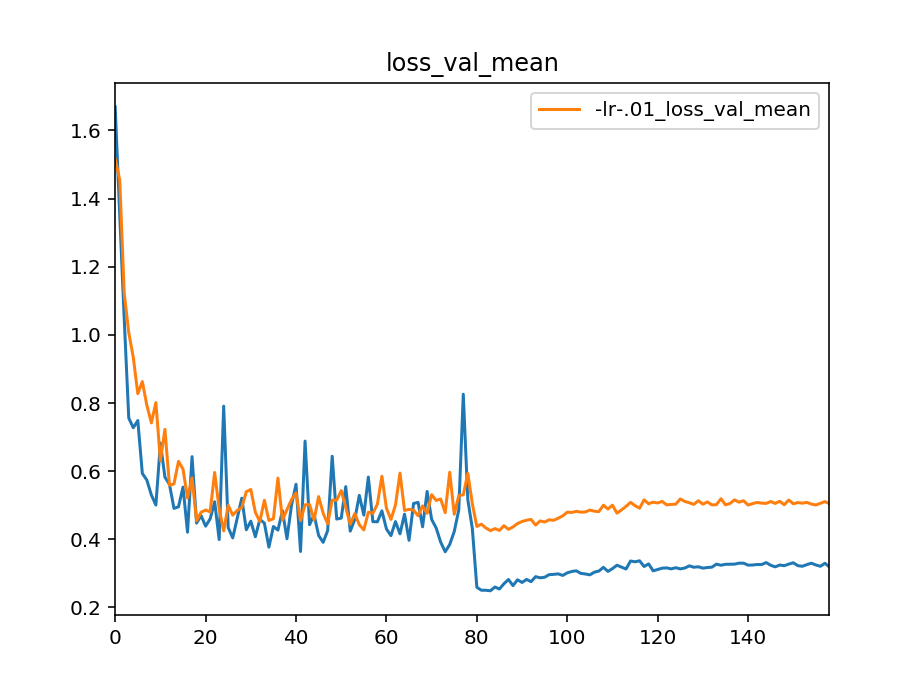
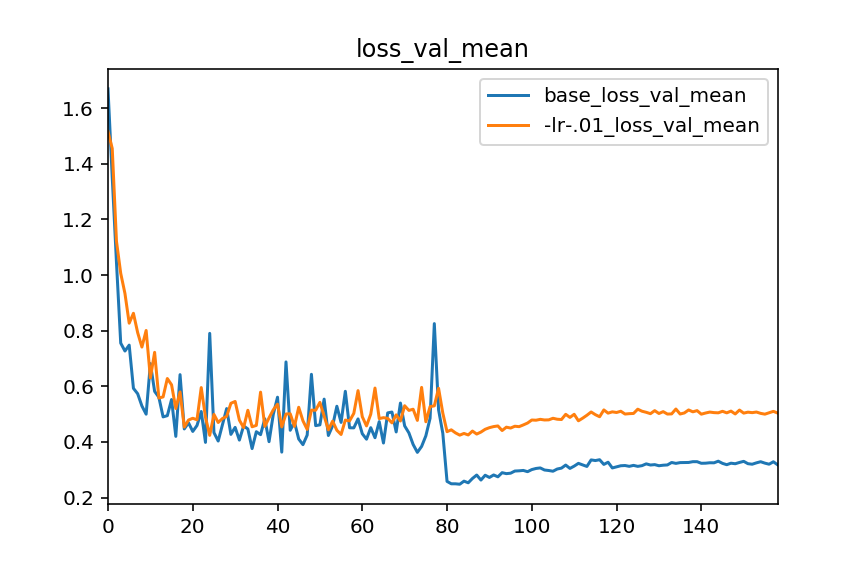
general reporting changes

diff --git a/reports.py b/reports.py
@@ -38,13 +38,7 @@ params_kv = {
 }
 
 def main():
-    args = parser.parse_args()
-
-    list_of_hyper_param_variants = [""]
-
-    list_of_hyper_param_variants += [params_kv.get(k) for k in args.params.split(",") if k in params_kv.keys()]
-
-    metrics = args.metrics.split(",") 
+    args = parser.parse_args() 
 
     depths = args.depth.split(",")
     cifars = args.cifar.split(",")
@@ -52,19 +46,39 @@ def main():
 
     if args.logs:
         logs_dir = 'logs-' + args.logs + "/"
+    
+    run(depths=depths, 
+            cifars=cifars, 
+            hyper_params=args.params,
+            metrics=args.metrics,
+            logs_dir='logs/'
+            )
 
+def run(depths=[20,56,110], 
+            cifars=[10,100], 
+            hyper_params='lr.01,lr.02,lr.2,lr.5,lr1.0,e80,e320,mb64,mb256',
+            metrics='loss_val_mean,acc_val_mean',
+            logs_dir='logs/'
+            ):
 
+    metrics = metrics.split(",")
+
+    list_of_hyper_param_variants = [""]
+
+    list_of_hyper_param_variants += [params_kv.get(k) for k in hyper_params.split(",") if k in params_kv.keys()]
+
+    logs_table = []
     for depth in depths:  
         for cifar in cifars:
-            get_metric_logs(list_of_hyper_param_variants, metrics, depth, cifar, logs_dir)
-
-
-        
+            logs_table += get_metric_logs(list_of_hyper_param_variants, metrics, depth, cifar, logs_dir)
+    
+    return logs_table
+       
 
 def get_metric_logs(list_of_hyper_param_variants, metrics, depth, cifar, logs_dir = "logs/"):
     logs_data_train = []
     logs_data_test = []
-    logs_final_prec = []    
+    logs_table = []    
 
     for hyper_param_variant in list_of_hyper_param_variants:
         name = "resnet{depth}-cifar-{cifar}{hyper_param_variant}".format(depth=depth, cifar=cifar,hyper_param_variant=hyper_param_variant)
@@ -80,27 +94,37 @@ def get_metric_logs(list_of_hyper_param_variants, metrics, depth, cifar, logs_di
         logs_data_test.append(dfs.get("test"))
         logs_data_train.append(dfs.get("train"))
 
-        logs_final_prec.append({
+        hyper_keys_dict = {
             "name" : name,
             "cifar" : cifar,
             "layer" : depth,
-            "epochs" : "",
-            "batxh-size" : "",
-            "lr" : "",
-            "momentum" : 0.9,
-            "residual-block" : "",
-            "skip-connections" : "",
-            "train-data-size" : "",
-            "weight-decay" : "",
-            "prec" : dfs.get("prec")
-            # "train_stats": dfs.get("train").describe(),
-            # "test_stats": dfs.get("test").describe()
-        })   
+            "epochs" : 160,
+            "minibatch" : 128,
+            "lr" : 0.1,
+            "rb" : -1,
+            "sc" : -1,
+            "tds" : 1.0,
+            "prec" : dfs.get("prec"),
+            "train_avg_loss" : dfs.get("train_mean_avg_loss"),
+            "train_val_loss" : dfs.get("train_mean_val_loss"),
+            "test_avg_loss" : dfs.get("test_mean_avg_loss"),
+            "test_val_loss" : dfs.get("test_mean_avg_loss")
+        }
+
+        if hyper_param_variant in params_kv.values():
+            hyper_key_arr = hyper_param_variant.split("-")
+            hyper_key_val = hyper_key_arr.pop()
+            hyper_key_key = ''.join(hyper_key_arr[1:])
+            hyper_keys_dict[hyper_key_key] = hyper_key_val
+            
+
+        logs_table.append(hyper_keys_dict)   
+ 
 
     iterate_metrics(metrics, logs_data_test, depth, cifar, "test", logs_dir)
     iterate_metrics(metrics, logs_data_train, depth, cifar, "train", logs_dir)
 
-    return
+    return logs_table
 
 def iterate_metrics(metrics, logs_data, depth, cifar, t_set, logs_dir = "logs/"):
     len_dfs = len(logs_data)
@@ -127,10 +151,10 @@ def print_comparison_chart(logs_compare, metric, depth, cifar, t_set, logs_dir =
 
     os.makedirs(chart_path, exist_ok=True)
 
-
-    comparison_chart = compare_dfs(logs_compare, [metric], chart_path + "/" + filename)
-
-    return comparison_chart
+    if not os.path.isfile(chart_path + "/" + filename + ".png"):
+        comparison_chart = compare_dfs(logs_compare, [metric], chart_path + "/" + filename)
+        return comparison_chart
+    return
 
 
 if __name__=='__main__':

diff --git a/results.py b/results.py
@@ -15,15 +15,17 @@ def get_test_and_train_logs(depth, cifar, hyper_param, logs_dir = "logs/"):
     test_summarised_df = prepare_summary_df(data.get("test"))
     train_summarised_df = prepare_summary_df(data.get("train"))
 
-    
-
-    df_test = prepare_df_object(test_summarised_df, hyper_param )
-    df_train = prepare_df_object(train_summarised_df, hyper_param ) 
+    df_test = prepare_df_object(test_summarised_df.get("df"), hyper_param )
+    df_train = prepare_df_object(train_summarised_df.get("df"), hyper_param ) 
     
     return {
         "train" : df_train,
         "test"  : df_test,
-        "prec"  : data.get("final_accuracy")
+        "prec"  : data.get("final_accuracy"),
+        "train_mean_avg_loss" : train_summarised_df.get("mean_avg_loss"),
+        "train_mean_val_loss" : train_summarised_df.get("mean_val_loss"),
+        "test_mean_avg_loss" : test_summarised_df.get("mean_avg_loss"),
+        "test_mean_val_loss" : test_summarised_df.get("mean_val_loss"),
     }
 
 def read_logs(depth=20, cifar=10, hyper_param="", logs_dir = "logs/"):
@@ -57,8 +59,6 @@ def read_logs(depth=20, cifar=10, hyper_param="", logs_dir = "logs/"):
             train_batch = []
         if "Prec" in line:
             acc = line.strip().replace("%","").split()[2]
-
-    #print("final accuracy - {filename} {acc}".format(acc=acc, filename=filename))
 
     return {
         "train" : train_batches,
@@ -134,7 +134,13 @@ def prepare_summary_df(dfs):
 
         stats_df_src.append(new_series)
 
-    return pd.DataFrame(stats_df_src)
+    df = pd.DataFrame(stats_df_src)
+    desc_df = df.describe()
+    return {    
+        "df" : df,
+        "mean_avg_loss" : desc_df["loss_avg_mean"]["mean"],
+        "mean_val_loss" : desc_df["loss_val_mean"]["mean"],
+    }
 
 
 # prepares the dict of dataframe object 
@@ -143,7 +149,9 @@ def prepare_df_object(df, name ):
     return {
         "name" : name,
         "stats" : df.describe(),
-        "df" : df
+        "df" : df,
+        "mean_val_loss" : df.describe().loc["mean"]["loss_val_mean"],
+        "mean_avg_loss" : df.describe().loc["mean"]["loss_avg_mean"]
     }
 
 
@@ -161,7 +169,10 @@ def compare_dfs(list_of_dicts_of_dfs, list_params, print_to_file = ""):
     for param in list_params:
         plot_diff = pd.DataFrame()
         for df_obj in list_of_dicts_of_dfs:
-            plot_diff[df_obj.get("name") + "_" + param] = df_obj.get("df")[param]
+            hyper = df_obj.get("name")
+            if not hyper:
+                hyper = "base"
+            plot_diff[ hyper + "_" + param] = df_obj.get("df")[param]
        
         
         if print_to_file and plot_diff.shape[0]:
@@ -172,6 +183,7 @@ def compare_dfs(list_of_dicts_of_dfs, list_params, print_to_file = ""):
             plt.close() 
         
         param_comparison[param] = plot_diff
+
 
             # plot_log = plot_diff.plot(logy=True) 
 
